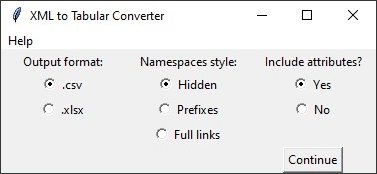
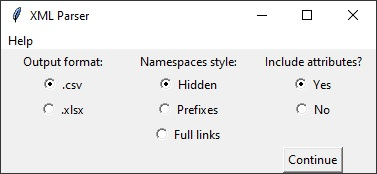
Changed tool name to XML Parser. Updated conversion example on README to include numbering of repeated xpaths.

Changed region(s): [[0.1459, 0.0575, 0.4377, 0.1149]]

diff --git a/src/GUI.py b/src/GUI.py
@@ -27,10 +27,10 @@ class TopMenu:
         tkmessagebox.showinfo('Help', msgs.help_msg_content)
 
     def visit_github_clicked(self):
-        webbrowser.open('https://github.com/T-Tomczyk/XML-to-Tabular-Converter')
+        webbrowser.open('https://github.com/T-Tomczyk/XML-Parser')
 
     def read_license_clicked(self):
-        webbrowser.open('https://github.com/T-Tomczyk/XML-to-Tabular-Converter/blob/master/LICENSE')
+        webbrowser.open('https://github.com/T-Tomczyk/XML-Parser/blob/master/LICENSE')
 
     def about_clicked(self):
         tkmessagebox.showinfo('About', msgs.about_msg_content)
@@ -105,7 +105,7 @@ class Main_Button:
 
     def main_button_clicked(self):
         '''
-        Event which occurs when user clicks the Convert button.
+        Event which occurs when user clicks the Continue button.
         '''
 
         # Ask user to select files that they want converted.
@@ -128,7 +128,7 @@ class Main_Button:
 
 
 window = tk.Tk()
-window.title('XML to Tabular Converter')
+window.title('XML Parser')
 
 TopMenu()
 

diff --git a/src/converter.py b/src/converter.py
@@ -126,11 +126,11 @@ def generate_output_file(source_df, output_format):
     adds a numerical suffix to the filename. Initial target filename is simply
     output.csv (or output.xlsx), then output1.csv, then output2.csv etc.
     '''
-    output_filename = 'converter_output.' + output_format
+    output_filename = 'xml_parser_output.' + output_format
 
     suffix = 1
     while output_filename in os.listdir():
-        output_filename = 'converter_output' + str(suffix) + '.' + output_format
+        output_filename = 'xml_parser_output' + str(suffix) + '.' + output_format
         suffix += 1
 
     if output_format == 'xlsx':

diff --git a/src/msgs.py b/src/msgs.py
@@ -1,5 +1,5 @@
 about_msg_content = '''XML to Tabular Converter
-Version 0.1
+Version 1.0
 Copyright (c) 2022 Tomasz Tomczyk
 
 This product is licensed under GNU GENERAL PUBLIC LICENSE.

diff --git a/README.md b/README.md
@@ -1,5 +1,5 @@
 ## Introduction
-XML to Tabular Converter is a tool for transforming data from one or more .xml files into a tabular format (.csv or .xlsx).
+XML Parser is a tool for transforming data from one or more .xml files into a tabular format (.csv or .xlsx).
 
 This tool will work with all .xml files, but it is particularly useful when comparing files that are similar to each other in terms of the structure, but different in terms of values.
 
@@ -10,36 +10,39 @@ This tool will work with all .xml files, but it is particularly useful when comp
 Given ex1.xml:
 ```xml
 <?xml version="1.0" encoding="UTF-8"?>
-<cont:contact xmlns:cont="http://examplelink.com/contact-us">
-   <cont:name style="First Last">Nikola Tesla</cont:name>
-   <cont:phone>
-       <number>+381 11 234 56 78</number>
-       <country>Serbia</country>
-   </cont:phone>
-   <cont:occupation>Inventor</cont:occupation>
-</cont:contact>
+<contact>
+   <name style="First Last">Alan Turing</name>
+   <birth>
+       <country>England</country>
+       <year>1912</year>
+   </birth>
+   <occupation>Mathematician</occupation>
+   <occupation>Computer Scientist</occupation>
+</contact>
 ```
 
 and ex2.xml:
 ```xml
 <?xml version="1.0" encoding="UTF-8"?>
-<cont:contact xmlns:cont="http://examplelink.com/contact-us">
-   <cont:name style="First Last">Thomas Edison</cont:name>
-   <cont:phone>
-       <number>(0123) 456-7890</number>
-   </cont:phone>
-   <cont:occupation>Inventor</cont:occupation>
-</cont:contact>
+<contact>
+   <name style="First Last">Katherine Johnson</name>
+   <birth>
+       <country>United States</country>
+   </birth>
+   <occupation>Mathematician</occupation>
+   <occupation>Physicist</occupation>
+</contact>
 ```
 
 the tool produces the following output:
-|               | ex1.xml           | ex2.xml         | Diff  |
-|---------------|-------------------|-----------------|-------|
-| name          | Nikola Tesla      | Thomas Edison   | Break |
-| name@style    | First Last        | First Last      | Match |
-| phone/number  | +381 11 234 56 78 | (0123) 456-7890 | Break |
-| phone/country | Serbia            |                 | Break |
-| occupation    | Inventor          | Inventor        | Match |
+|               | ex1.xml            | ex2.xml           | Diff  |
+|---------------|--------------------|-------------------|-------|
+| name          | Alan Turing        | Katherine Johnson | Break |
+| name@style    | First Last         | First Last        | Match |
+| birth/country | England            | United States     | Break |
+| birth/year    | 1912               |                   | Break |
+| occupation[1] | Mathematician      | Mathematician     | Match |
+| occupation[2] | Computer Scientist | Physicist         | Break |
 
 
 ## Conversion details
@@ -72,7 +75,7 @@ This method only works on Windows.
     - Python 3,
     - pandas module ("pip install pandas"),
     - lxml module ("pip install lxml").
-2. Download the python files from the src folder. You can do it using your browser or from a command line using git.
+2. Download the python files from the src directory. You can do it using your browser or from a command line using git.
 3. In your command line go to the location of the downloaded file.
 4. Run "python GUI.py".
 4. Select options and click "Continue".
